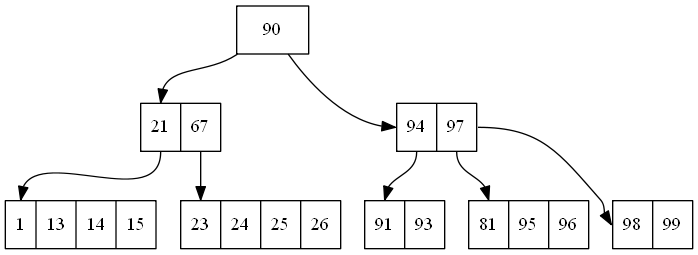
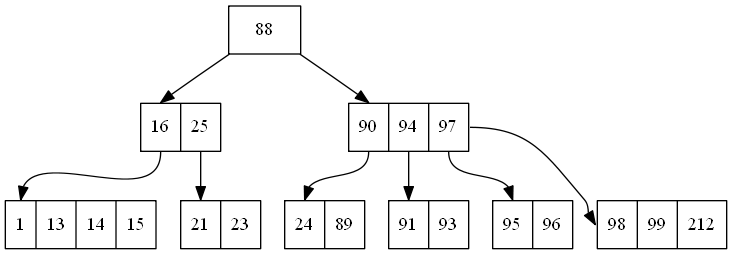
arbol_b3

diff --git a/angular-crud/src/app/components/carga/carga.component.html b/angular-crud/src/app/components/carga/carga.component.html
@@ -14,6 +14,7 @@
         <a href="/tiendas"(click)="getInvent(carga.value)">INVENTARIOS</a>
         <a href="/tiendas"(click)="postPedido(carga.value)">PEDIDOS</a>
         <a href="/tiendas"(click)="postUser(carga.value)">USUARIOS</a>
+        <p (click)="postUser(carga.value)">Hola</p>
       </div>
     </div>
   </div>

diff --git a/Seguridad/B_Tree.go b/Seguridad/B_Tree.go
@@ -41,7 +41,7 @@ func New_B() *B_Tree {
 }
 
 //INSERCION
-func (a *B_Tree) Insertar(user Tipos.Usuario) {
+func (a *B_Tree) Insertar(user Tipos.Usuario, num int) {
 	user_b := newnodo_b(user, 0)
 	//fmt.Println("Vamo a insertar")
 	if a.raiz == nil {
@@ -49,12 +49,15 @@ func (a *B_Tree) Insertar(user Tipos.Usuario) {
 		n = append(n, user_b)
 		a.raiz = &Pagina{0, n}
 	} else {
+		fmt.Println("Preparando para insertar ", user.DPI)
 		Busqueda_Inser(a, user_b, &a.raiz, a.raiz, a.raiz.altura)
 		rompimiento(a.raiz, &a.raiz)
 	}
 }
 
 func rompimiento(actual *Pagina, anterior **Pagina) {
+	//fmt.Println("Vamo a romprer")
+	root(actual.users)
 	if len(actual.users) == 5 {
 		var n []*Nodo_B
 		n = append(n, actual.users[0])
@@ -66,9 +69,13 @@ func rompimiento(actual *Pagina, anterior **Pagina) {
 		sec := &Pagina{actual.altura + 1, m}
 		var l []*Nodo_B
 		l = append(l, actual.users[2])
-		uniq := &Pagina{actual.altura, l}
+		uniq := &Pagina{actual.altura - 1, l}
 		uniq.users[0].izquierda = prim
 		uniq.users[0].derecha = sec
+		uniq.users[0].altura = actual.users[2].altura - 1
+		/*aux := prim.altura
+		prim.altura = uniq.users[0].altura
+		uniq.users[0].altura = aux*/
 		if actual == (*anterior) {
 			(*anterior) = uniq
 			fmt.Println("Reset Rompi")
@@ -82,20 +89,26 @@ func rompimiento(actual *Pagina, anterior **Pagina) {
 				ind++
 			}
 			b := len((*anterior).users) - 1
-			for i := 0; i < len((*anterior).users); i++ {
+			for i := 0; i < len((*anterior).users)-1; i++ {
 				if i != b {
 					(*anterior).users[i].derecha = nil
 				}
 			}
-			impr((*anterior).users)
+			//impr((*anterior).users)
 		}
 	} else {
+
 		for i := 0; i < len(actual.users); i++ {
-			if actual.users[i].izquierda != nil {
+			if actual.users[i].izquierda != nil && i == len(actual.users)-1 {
 				rompimiento(actual.users[i].izquierda, &actual)
+				fmt.Print("Romp-izq")
 			}
-			if actual.users[i].derecha != nil {
+			/*if i == 0 && i == len(actual.users) && actual.users[i].derecha != nil {
 				rompimiento(actual.users[i].derecha, &actual)
+			}*/
+			if actual.users[i].derecha != nil && i == len(actual.users)-1 {
+				rompimiento(actual.users[i].derecha, &actual)
+				fmt.Print("Romp-der")
 			}
 		}
 	}
@@ -112,14 +125,16 @@ func Busqueda_Inser(arbol *B_Tree, user *Nodo_B, anterior **Pagina, pag *Pagina,
 		if i < j && conf != 2 {
 			conf = 2
 			index = cont
-		} else {
+			//fmt.Println(i, "<", j, "-", conf)
+		} else if i > j && conf != 2 {
 			conf = 3
 			index = cont
+			//fmt.Println(i, ">", j)
 		}
 		cont++
 	}
-	impr(pag.users)
-	fmt.Println("--------")
+	//impr(pag.users)
+	//fmt.Println("--------")
 	if conf == 2 {
 		if pag.users[index].izquierda == nil {
 			user.altura = alt
@@ -128,7 +143,7 @@ func Busqueda_Inser(arbol *B_Tree, user *Nodo_B, anterior **Pagina, pag *Pagina,
 			pag.users = slice
 		} else {
 			Busqueda_Inser(arbol, user, &pag, pag.users[index].izquierda, alt+1)
-			fmt.Println("B_izq")
+			//fmt.Println("B_izq")
 		}
 	} else if conf == 3 {
 		if pag.users[index].derecha == nil {
@@ -136,40 +151,9 @@ func Busqueda_Inser(arbol *B_Tree, user *Nodo_B, anterior **Pagina, pag *Pagina,
 			pag.users = append(pag.users, user)
 			slice := ordenar_slice(pag.users)
 			pag.users = slice
-			/*if len(pag.users) == 5 {
-				impr(pag.users)
-				fmt.Println("-/////")
-				var n []*Nodo_B
-				n = append(n, pag.users[0])
-				n = append(n, pag.users[1])
-				var m []*Nodo_B
-				m = append(m, pag.users[3])
-				m = append(m, pag.users[4])
-				prim := &Pagina{alt + 1, n}
-				sec := &Pagina{alt + 1, m}
-				var l []*Nodo_B
-				l = append(l, pag.users[2])
-				uniq := &Pagina{alt, l}
-				uniq.users[0].izquierda = prim
-				uniq.users[0].derecha = sec
-				if pag == (*anterior) {
-					(*anterior) = uniq
-					conf_b = 1
-					fmt.Println("Resetear raíz 1")
-				} else {
-					ind := 0
-					fmt.Println("Reseteo ale")
-					for ind < len(uniq.users) {
-						(*anterior).users = append((*anterior).users, uniq.users[ind])
-						slice := ordenar_slice((*anterior).users)
-						(*anterior).users = slice
-						ind++
-					}
-				}
-			}*/
 		} else {
 			Busqueda_Inser(arbol, user, &pag, pag.users[index].derecha, alt+1)
-			fmt.Println("B_der")
+			//fmt.Println("B_der")
 		}
 	}
 }
@@ -182,7 +166,8 @@ func impr(a []*Nodo_B) {
 	}
 }
 
-func (m *B_Tree) Print() {
+func (m *B_Tree) Print(num int) {
+	rompimiento(m.raiz, &m.raiz)
 	rompimiento(m.raiz, &m.raiz)
 	fmt.Println("Vamo a graficar")
 	graph = "digraph List {\n"
@@ -198,12 +183,12 @@ func (m *B_Tree) Print() {
 		log.Fatal(err)
 	}
 	//Creación de la imagen
-	fmt.Println(graph)
+	//fmt.Println(graph)
 	path, _ := exec.LookPath("dot") //Para que funcione bien solo asegurate de tener todas las herramientas para
 	// Graphviz en tu compu, si no descargalas osea el Graphviz
-	cmd, _ := exec.Command(path, "-Tpng", "graph.dot").Output() //En esta parte en lugar de graph va el nombre de tu grafica
-	mode := int(0777)                                           //Se mantiene igual
-	ioutil.WriteFile("Usuarios.png", cmd, os.FileMode(mode))    //Creacion de la imagen
+	cmd, _ := exec.Command(path, "-Tpng", "graph.dot").Output()                   //En esta parte en lugar de graph va el nombre de tu grafica
+	mode := int(0777)                                                             //Se mantiene igual
+	ioutil.WriteFile("Usuarios"+strconv.Itoa(num)+".png", cmd, os.FileMode(mode)) //Creacion de la imagen
 	pointers = ""
 	nodes = ""
 	graph = ""
@@ -213,6 +198,23 @@ func (m *B_Tree) Print() {
 func inutil(a error) {
 
 }
+
+func root(user []*Nodo_B) {
+	for i := 0; i < len(user); i++ {
+		fmt.Print(user[i].User.DPI, "--")
+		if user[i].derecha != nil {
+			fmt.Print("YD")
+		} else {
+			fmt.Print("ND")
+		}
+		if user[i].izquierda != nil {
+			fmt.Print("YI|")
+		} else {
+			fmt.Print("NI |")
+		}
+	}
+	fmt.Println()
+}
 func imprimir(pag *Pagina) {
 	if pag != nil {
 		cont := 0
@@ -220,16 +222,16 @@ func imprimir(pag *Pagina) {
 		for cont < len(pag.users) {
 			if cont == 0 {
 				if len(pag.users) > 1 {
-					nodes += "\"<f" + strconv.Itoa(cont) + ">" + pag.users[cont].User.DPI + "|"
+					nodes += "\"<f" + strconv.Itoa(cont) + ">" + pag.users[cont].User.DPI + "-" + strconv.Itoa(pag.users[cont].altura) + "|"
 				} else {
-					nodes += "\"<f" + strconv.Itoa(cont) + ">" + pag.users[cont].User.DPI + "\"]\n"
+					nodes += "\"<f" + strconv.Itoa(cont) + ">" + pag.users[cont].User.DPI + "-" + strconv.Itoa(pag.users[cont].altura) + "\"]\n"
 				}
 			}
 			if cont < len(pag.users)-1 && cont != 0 {
-				nodes += "<f" + strconv.Itoa(cont) + ">" + pag.users[cont].User.DPI + "|"
+				nodes += "<f" + strconv.Itoa(cont) + ">" + pag.users[cont].User.DPI + "-" + strconv.Itoa(pag.users[cont].altura) + "|"
 			} else {
 				if len(pag.users) > 1 && cont != 0 {
-					nodes += "<f" + strconv.Itoa(cont) + ">" + pag.users[cont].User.DPI + "\"]\n"
+					nodes += "<f" + strconv.Itoa(cont) + ">" + pag.users[cont].User.DPI + "-" + strconv.Itoa(pag.users[cont].altura) + "\"]\n"
 				}
 			}
 			if pag.users[cont].izquierda != nil {

diff --git a/rest.go b/rest.go
@@ -6,6 +6,8 @@ import (
 	"errors"
 	"fmt"
 	"log"
+
+	//"math/rand"
 	"net/http"
 	"strconv"
 	"strings"
@@ -32,6 +34,7 @@ var user_tipo int //0 no hay sesión, 1 admin, 2 cliente
 var m_key string
 var storage Tipos.Almacen
 var usuarios Seguridad.B_Tree
+var admin_def Tipos.Usuario
 
 //F U N C I O N E S
 
@@ -575,6 +578,13 @@ func devolver_t_user(w http.ResponseWriter, r *http.Request) {
 	json.NewEncoder(w).Encode(user_tipo)
 }
 
+func default_admin() {
+	admin_def.DPI = "1234567890101"
+	admin_def.Correo = "auxiliar@edd.com"
+	admin_def.Password = "1234"
+	admin_def.Nombre = "EDD2021"
+}
+
 func cargar_users(w http.ResponseWriter, r *http.Request) {
 	headerContentTtype := r.Header.Get("Content-Type")
 	if headerContentTtype != "application/json" {
@@ -596,37 +606,95 @@ func cargar_users(w http.ResponseWriter, r *http.Request) {
 		return
 	}
 	errorResponse(w, "Archivo Recibido", http.StatusOK)
+	fmt.Println("LLego 1")
 	llenar_users(e)
 	return
 	//json.NewEncoder(w).Encode(user_tipo)
 }
 
 func test_b() {
-	cont := 0
-	users := []int{13, 21, 1, 25, 89, 14, 15, 23, 67, 88, 90, 24, 26, 91, 93, 94, 95, 96, 97, 98, 99, 81}
-	for cont < len(users) {
+	cont := 160
+	//users := []int{34, 16, 13, 21, 1, 25, 89, 14, 15, 23, 94, 67, 88, 90, 24, 91, 93, 95, 96, 97, 98, 99, 212, 26, 27, 20, 214, 215, 216, 217, 218, 219, 2}
+	var b []Tipos.Usuario
+	for cont > 0 {
 		var a Tipos.Usuario
-		a.DPI = strconv.Itoa(users[cont])
-		usuarios.Insertar(a)
-		cont++
+		//c := rand.Intn(10000)
+		a.DPI = strconv.Itoa(cont)
+		a.Dpi_ = cont
+		b = append(b, a)
+		/*usuarios.Insertar(a, cont)
+		usuarios.Print(cont)*/
+		cont--
 	}
+	var a Tipos.Usuario
+	a.DPI = strconv.Itoa(3031970130108)
+	//usuarios.Insertar(a, cont)
+
+	/*
+		i := 0
+		for i < len(b) {
+			fmt.Println(b[i].DPI)
+			i++
+		}*/
+	//fmt.Println(b)
 	//fmt.Println("Va mo a imprimir") Solo quitar el 88 y ya correra
-	usuarios.Print()
+	final := len(b) - 1
+	r := ordenar_users(b, 0, final)
+	t := 0
+	for t < len(r) {
+		usuarios.Insertar(r[t], t)
+		t++
+	}
+	usuarios.Print(t)
+}
+
+func ordenar_users(slice []Tipos.Usuario, left int, right int) []Tipos.Usuario {
+	pivote := slice[left]
+	i := left
+	j := right
+	var aux Tipos.Usuario
+	for i < j {
+		for slice[i].Dpi_ <= pivote.Dpi_ && i < j {
+			i++
+		}
+		for slice[j].Dpi_ > pivote.Dpi_ {
+			j--
+		}
+		if i < j {
+			aux = slice[i]
+			slice[i] = slice[j]
+			slice[j] = aux
+		}
+	}
+	slice[left] = slice[j]
+	slice[j] = pivote
+	if left < j-1 {
+		ordenar_users(slice, left, j-1)
+	}
+	if j+1 < right {
+		ordenar_users(slice, j+1, right)
+	}
+	return slice
 }
 
 func llenar_users(e Tipos.Cuentas) {
+	fmt.Println("LLego 2")
 	array_users := e.Usuarios
-
 	sum := 0
-	for sum < len(array_users) {
+	c := len(array_users) - 1
+	array := ordenar_users(array_users, 0, c)
+	for sum < len(array) {
 		if array_users[sum].Cuenta == "Admin" {
-			array_users[sum].Tipo = 1
+			array[sum].Tipo = 1
 		} else {
-			array_users[sum].Tipo = 2
+			array[sum].Tipo = 2
 		}
+		usuarios.Insertar(array[sum], sum)
 		sum++
 	}
-	fmt.Println(array_users)
+	usuarios.Print(sum)
+	fmt.Println(array)
+
 }
 
 func setupCorsResponse(w *http.ResponseWriter, req *http.Request) {
@@ -808,8 +876,9 @@ func errorResponse(w http.ResponseWriter, message string, httpStatusCode int) {
 
 func main() {
 	router := mux.NewRouter()
-	test_b()
+	//test_b()
 	//endpoint-rutas
+	default_admin()
 	router.HandleFunc("/TiendaEspecifica", GetStore).Methods("POST") //LISTO
 	router.HandleFunc("/id/{numero}", GetList).Methods("GET")        //LISTO
 	router.HandleFunc("/cargartienda", readBody).Methods("POST")     //LISTO

diff --git a/Tipos/tipos.go b/Tipos/tipos.go
@@ -92,7 +92,8 @@ type Cuentas struct {
 }
 
 type Usuario struct {
-	DPI      string `json:"Dpi,omitempty"`
+	DPI      string
+	Dpi_     int    `json:"Dpi,omitempty"`
 	Nombre   string `json:"Nombre,omitempty"`
 	Correo   string `json:"Correo,omitempty"`
 	Password string `json:"Password,omitempty"`
